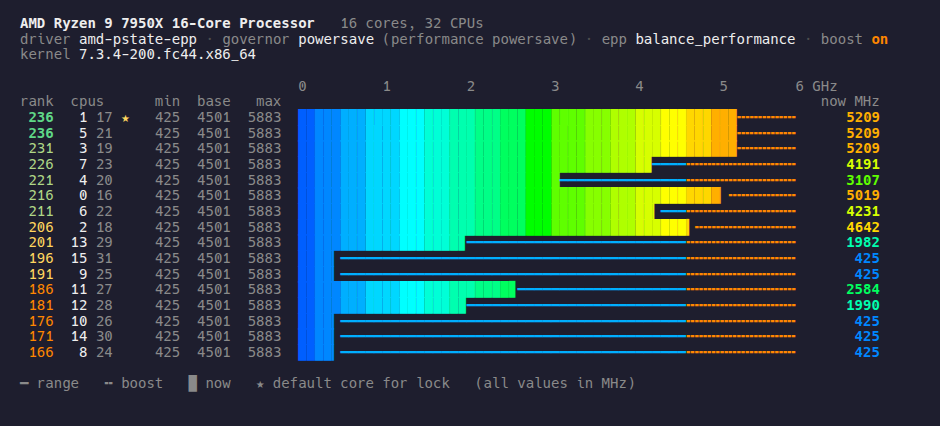
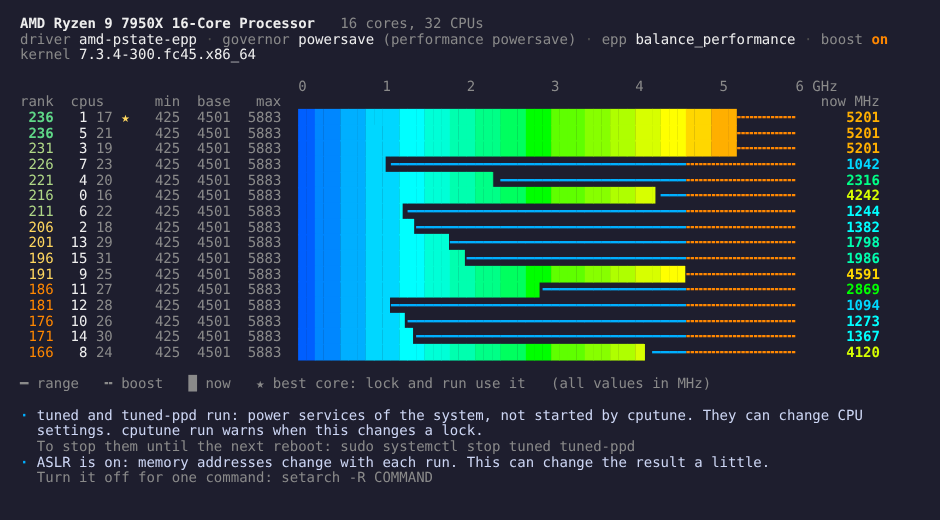
README: new screenshot of cputune --now on the Ryzen 9 7950X (#13)
The old picture showed the output before 2.4.0. The new one shows the
current output of 2.4.3: the star legend "best core: lock and run use
it" and the notes for tuned and ASLR. Three cores have load (cpu 1, 3,
5), as before. The alt text and the docstring of docs/ansi2png.py use
"cputune --now" (show is the default command).

Claude-Session: https://claude.ai/code/session_01JxkwtrZFiFDkcmfZTV3HHs

Changed region(s): [[0.0309, 0.1526, 0.9564, 0.946], [0.0, 0.0305, 0.9564, 0.1526]]

diff --git a/docs/ansi2png.py b/docs/ansi2png.py
@@ -3,7 +3,7 @@
 Makes docs/show.png:
 
     for c in 1 3 5; do timeout 3 taskset -c $c python3 -c 'while 1: pass' & done; sleep 0.5
-    COLUMNS=104 ./cputune show --now --color always > /tmp/show.ansi; wait
+    COLUMNS=104 ./cputune --now --color always > /tmp/show.ansi; wait
     python3 docs/ansi2png.py /tmp/show.ansi docs/show.png 940
 
 Needs google-chrome (or chromium) in PATH.

diff --git a/README.md b/README.md
@@ -4,7 +4,7 @@
 their frequency, so that benchmarks give stable results. It is one Python file
 (3.9 or newer) with no dependencies.
 
-![cputune show --now on a Ryzen 9 7950X, with load on three cores](docs/show.png)
+![cputune --now on a Ryzen 9 7950X, with load on three cores](docs/show.png)
 
 ## Install
 
